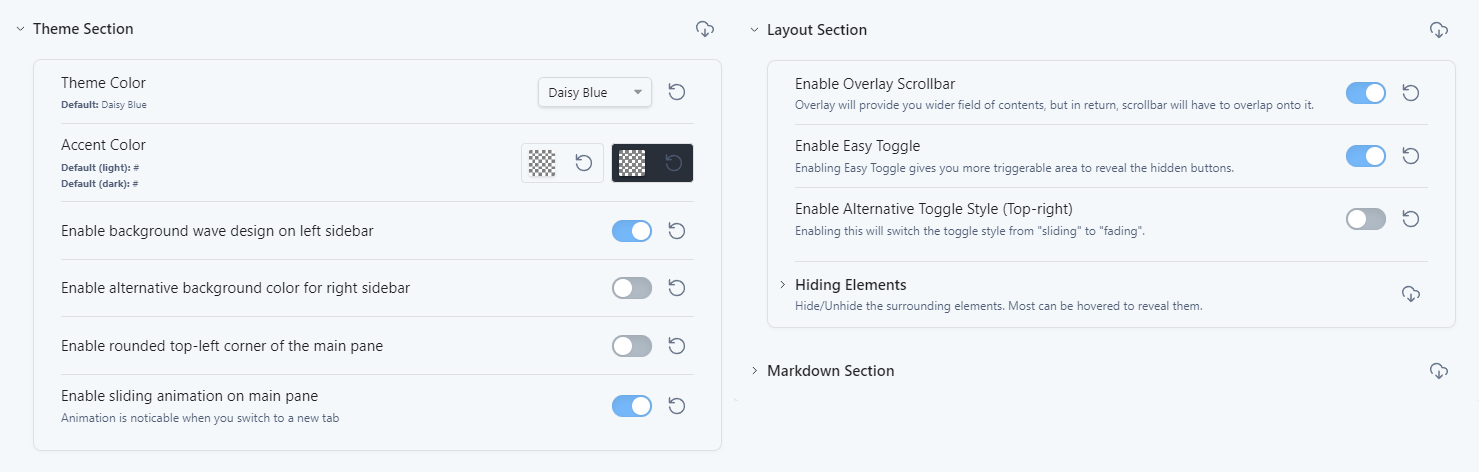
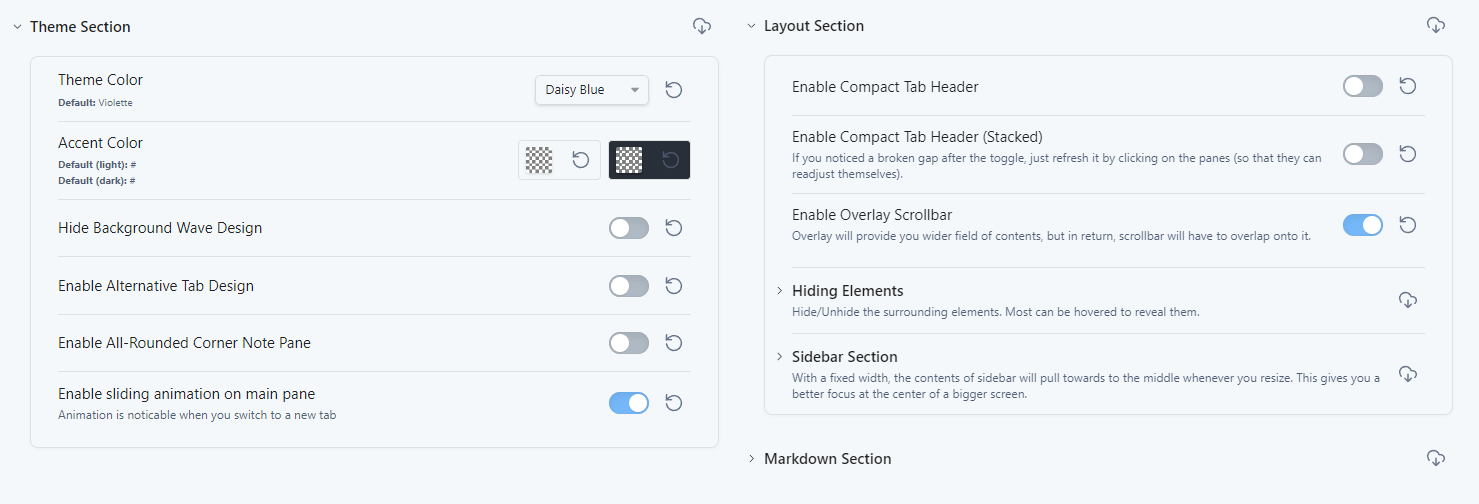
update readme

diff --git a/README.md b/README.md
@@ -11,20 +11,26 @@ Recommended fonts for this theme:
 - Text: Segoe UI, Noto Sans
 - Code: Fira Code
 
+## Style Settings Available
+
+![](img/stylesettings.png)
+
+- Customizable theme colours, basic layout modifying, element hide-&-unhiding, and some basic markdown styling.
+
+
 ## Mado CSS Classes For Fun!
 <details>
-<summary><b>Mado-Heading</b></summary>
+<summary><b>Mado Heading</b></summary>
 
 ![](img/mado-heading.png)
 
 ```
 cssclass: mado-heading
 ```
-Transforming your normal note into more bulky block button design!
 
 </details>
 <details>
-<summary><b>Mado-Explorer</b></summary>
+<summary><b>Mado Explorer</b></summary>
 
 ![](img/mado-explorer.png)
 
@@ -42,7 +48,7 @@ There are rules for this to work:
 4. <li> will act as first level folder's children, where its contents should fill with just <a>, and itself should be placed below <h1>.
 5. Second level folder, or nested <li>, is not possible.
 6. For <h1> to be foldable, you have to enable the foldable option in the settings.
-
+7. To make a solo-file below a folder list, use an empty <h1> to act as a separator.
 ```
 
 Example:
@@ -58,16 +64,13 @@ Example:
 
 </details>
 <details>
-<summary><b>Mado-Table</b></summary>
+<summary><b>Mado Table</b></summary>
 
 ![](img/mado-table.png)
 
 ```
 cssclass: mado-table
-```
-
-Turns your normal-looking table into a fancy spacious one! With more options provided for you to tweak the like of it.
-Example:
+``` 
 
 ```
 cssclass: mado-table (special styling)
@@ -87,16 +90,13 @@ mado-table-topless (remove table-header position on the top)
 
 </details>
 <details>
-<summary><b>Mado-Panel</b></summary>
+<summary><b>Mado Panel</b></summary>
 
 ![](img/mado-panel.png)
 
 ```
 cssclass: mado-panel
 ```
-
-Turns your lists into panels! More fancy way to look and click. Also comes with options to tweak.
-Example:
 
 ```
 cssclass: mado-panel (transform all lists into panels)
@@ -105,6 +105,7 @@ cssclass: mado-panel-XXX, mado-panel-XXX (including more options, in this case, 
 
 Options:
 mado-panel-list (long and thin size, lists can be nested)
+mado-panel-list-rightbox (the position of the checkbox in a list will be placed on the right instead of left)
 mado-panel-small, mado-panel-medium, mado-panel-large, mado-panel-long, mado-panel-short (define fixed-size, lists cannot be nested)
 mado-panel-auto (maintain the minimum fixed-size of above, while auto-widen based on its contents, not applicable to mado-panel-list)
 mado-panel-link (turns link into a full button. Must not mix with plain text inside a single list)
@@ -115,7 +116,6 @@ Rule:
 ```
 1. Only <li>(list) will turn into panel.
 2. The list can consist of <a>(link) or "[]"(Checkbox), or plain text.
-3. Nested list is not available except for `mado-panel-list`.
 ```
 Callout version is also available if you need only one part of the list to become panel.
 Options in callout version can be chained directly. (Only `auto` and `link` are currently available to be chained)
@@ -128,7 +128,7 @@ Example:
 
 </details>
 <details>
-<summary><b>Mado-Timeline</b></summary>
+<summary><b>Mado Timeline</b></summary>
 
 ![](img/mado-timeline.png)
 
@@ -136,17 +136,15 @@ Example:
 cssclass: mado-timeline
 ```
 
-Centers all of your element in the note! Not only that, using `<h1>` will form a huge space above it, while using `<h2>` will form a separator (a vertical `<hr>` or `---`) above it.
-
 </details>
 <details>
-<summary><b>Mado-Daily</b></summary>
+<summary><b>Mado Daily</b></summary>
+
+![](img/mado-daily.png)
 
 ```
 cssclass: mado-daily
 ```
-
-![](img/mado-daily.png)
 
 Feel like logging into a game to turn in for daily bonus? Well, now you can with this manual-stamp daily!
 You can set the reward for every 2nd and 5th day, and then start filling in with any value or emoji in the empty cells. The reward will mark as checked when the previous cell is filled in.
@@ -154,15 +152,17 @@ Also, adding in another cssclass `mado-table` will give it a better looking, opt
 
 </details>
 <details>
-<summary><b>Mado-Table-Check & List2Table</b></summary>
+<summary><b>Mado Table Check & List2Table</b></summary>
 
 ![](img/mado-table-check.png)
+
+Stamp a checkmark by manually using "strikethrough" (`~~~~`/`<del></del>`) inside the block, either on the value or beside the value!
 
 ```
 cssclass: mado-table-check
 ```
 
-Stamp a checkmark by manually using "strikethrough" (`~~~~`/`<del></del>`) inside the block, either on the value or beside the value!
+Don't like manually stamping? Then try out callout `mado-list2table`! By turning a list of checklists into a pseudo-table, you can now mark a check on the block by directly clicking onto it!
 
 ```
 > [!mado-list2table]
@@ -170,7 +170,5 @@ Stamp a checkmark by manually using "strikethrough" (`~~~~`/`<del></del>`) insid
 >   - [ ] Checkboxes
 >   - [ ] Checkboxes
 ```
-
-Don't like manually stamping? Then try out callout `mado-list2table`! By turning a list of checklists into a pseudo-table, you can now mark a check on the block by directly clicking onto it!
 
 </details>
